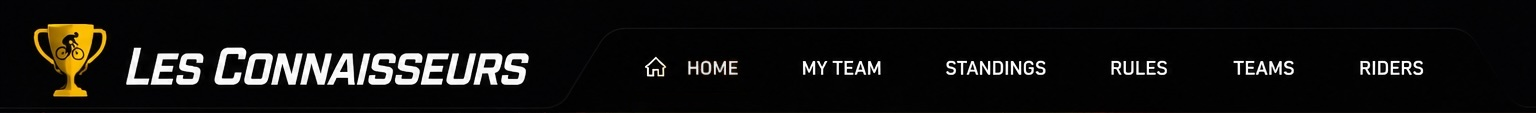
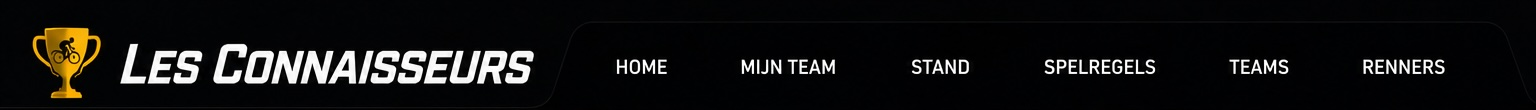
Add files via upload

diff --git a/assets/js/riders.js b/assets/js/riders.js
@@ -2,17 +2,7 @@
 "use strict";
 
 let allRiders = [];
-let riderSort = { key: "points", direction: "desc" };
-
-function slugifyRiderName(name) {
-    return "rider/" + name
-        .normalize("NFD")
-        .replace(/[\u0300-\u036f]/g, "") // strip accents
-        .toLowerCase()
-        .trim()
-        .replace(/[^a-z0-9\s-]/g, "")
-        .replace(/\s+/g, "-");
-}
+let riderSort = { key: "name", direction: "asc" };
 
 async function initRiders() {
 
@@ -23,27 +13,13 @@ async function initRiders() {
 
     try {
 
-        const [ridersResponse, stateResponse] = await Promise.all([
-            fetch("data/riders.json"),
-            fetch("data/state.json")
-        ]);
+        const ridersResponse = await fetch("data/riders.json");
 
         if (!ridersResponse.ok) {
             throw new Error("Unable to load riders.json");
         }
 
-        const riders = await ridersResponse.json();
-        let riderPoints = {};
-
-        if (stateResponse.ok) {
-            const state = await stateResponse.json();
-            riderPoints = state.rider_points || {};
-        }
-
-        allRiders = riders.map(rider => ({
-            ...rider,
-            points: riderPoints[slugifyRiderName(rider.name)] || 0
-        }));
+        allRiders = await ridersResponse.json();
 
         renderRiders();
 
@@ -64,7 +40,7 @@ function sortRiders(key) {
         riderSort.direction = riderSort.direction === "asc" ? "desc" : "asc";
     } else {
         riderSort.key = key;
-        riderSort.direction = key === "points" ? "desc" : "asc";
+        riderSort.direction = "asc";
     }
 
     renderRiders();
@@ -105,7 +81,6 @@ function renderRiders() {
             <td>${rider.name}</td>
             <td>${rider.team}</td>
             <td>${rider.bib}</td>
-            <td>${rider.points}</td>
         </tr>
     `).join("");
 
@@ -116,7 +91,6 @@ function renderRiders() {
                     <th class="sortable" data-sort-key="name">Name${arrow("name")}</th>
                     <th class="sortable" data-sort-key="team">Team${arrow("team")}</th>
                     <th class="sortable" data-sort-key="bib">Bib${arrow("bib")}</th>
-                    <th class="sortable" data-sort-key="points">Points${arrow("points")}</th>
                 </tr>
             </thead>
             <tbody>

diff --git a/index.html b/index.html
@@ -26,19 +26,19 @@
 
     <img class="site-header-image" src="assets/img/header.jpg" alt="Les Connaisseurs">
 
-    <a href="#" class="header-nav-link" style="left:0%; width:49.95%;" onclick="loadPage('home'); return false;" aria-label="Home"></a>
-    <a href="#" class="header-nav-link" style="left:49.95%; width:9.88%;" onclick="loadPage('enter'); return false;" aria-label="My Team"></a>
-    <a href="#" class="header-nav-link" style="left:59.83%; width:9.65%;" onclick="loadPage('standings'); return false;" aria-label="Standings"></a>
-    <a href="#" class="header-nav-link" style="left:69.48%; width:8.72%;" onclick="loadPage('rules'); return false;" aria-label="Rules"></a>
-    <a href="#" class="header-nav-link" style="left:78.2%; width:8.2%;" onclick="loadPage('teams'); return false;" aria-label="Teams"></a>
-    <a href="#" class="header-nav-link" style="left:86.4%; width:10.6%;" onclick="loadPage('riders'); return false;" aria-label="Riders"></a>
+    <a href="#" class="header-nav-link" style="left:0%; width:46.575%;" onclick="loadPage('home'); return false;" aria-label="Home"></a>
+    <a href="#" class="header-nav-link" style="left:46.575%; width:9.725%;" onclick="loadPage('enter'); return false;" aria-label="Mijn Team"></a>
+    <a href="#" class="header-nav-link" style="left:56.3%; width:10.125%;" onclick="loadPage('standings'); return false;" aria-label="Stand"></a>
+    <a href="#" class="header-nav-link" style="left:66.425%; width:10.35%;" onclick="loadPage('rules'); return false;" aria-label="Spelregels"></a>
+    <a href="#" class="header-nav-link" style="left:76.775%; width:9.9%;" onclick="loadPage('teams'); return false;" aria-label="Teams"></a>
+    <a href="#" class="header-nav-link" style="left:86.675%; width:10.325%;" onclick="loadPage('riders'); return false;" aria-label="Renners"></a>
 
-    <span class="header-indicator" data-indicator="home" style="left:41.4%; width:7.3%;"></span>
-    <span class="header-indicator" data-indicator="enter" style="left:52.3%; width:5.1%;"></span>
-    <span class="header-indicator" data-indicator="standings" style="left:61.6%; width:6.4%;"></span>
-    <span class="header-indicator" data-indicator="rules" style="left:72.3%; width:3.7%;"></span>
-    <span class="header-indicator" data-indicator="teams" style="left:80.3%; width:3.9%;"></span>
-    <span class="header-indicator" data-indicator="riders" style="left:88.5%; width:4.1%;"></span>
+    <span class="header-indicator" data-indicator="home" style="left:40.2%; width:3.2%;"></span>
+    <span class="header-indicator" data-indicator="enter" style="left:48.3%; width:6.1%;"></span>
+    <span class="header-indicator" data-indicator="standings" style="left:59.4%; width:3.7%;"></span>
+    <span class="header-indicator" data-indicator="rules" style="left:68.0%; width:7.2%;"></span>
+    <span class="header-indicator" data-indicator="teams" style="left:80.0%; width:3.9%;"></span>
+    <span class="header-indicator" data-indicator="riders" style="left:88.7%; width:5.4%;"></span>
 
 </div>
 

diff --git a/pages/enter.html b/pages/enter.html
@@ -28,15 +28,6 @@
 
     <p id="lookup-message" class="form-message"></p>
 
-    <div class="form-group">
-        <label for="email">Email (optional)</label>
-        <input
-            type="email"
-            id="email"
-            name="email"
-        >
-    </div>
-
     <h3>Select Your <span id="riders-heading-count">20</span> Riders</h3>
 
     <p id="selection-counter"></p>

diff --git a/assets/js/form.js b/assets/js/form.js
@@ -136,9 +136,6 @@ async function maybeLookupTeam() {
             isExistingTeam = true;
 
             selectedRiders = Array.isArray(result.riders) ? result.riders.slice(0, TEAM_SIZE) : [];
-            if (result.email) {
-                document.getElementById("email").value = result.email;
-            }
 
             renderAvailableList();
             renderSelectedList();
@@ -325,7 +322,6 @@ async function submitForm(event) {
     const submission = {
         playerName: getNameValue(),
         pin: getPinValue(),
-        email: document.getElementById("email").value.trim(),
         riders: selectedRiders
     };
 